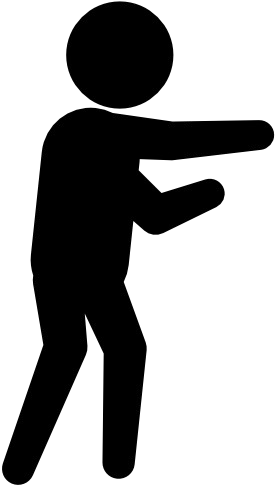
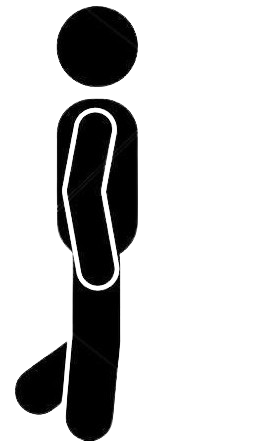
Повністю працююча анімація гравця

Changed region(s): [[0.0, 0.0, 1.0, 1.0], [0.2074, 0.0295, 0.2963, 0.1769]]

diff --git a/main.py b/main.py
@@ -28,8 +28,8 @@ player_size = (91, 161)
 player_image = pygame.transform.scale(pygame.image.load('D:\\Dev\\Projects\\Visual Game\\player.png').convert_alpha(), player_size)
 player_rect = player_image.get_rect()
 player_move_up = [0, -6]  # Збільшимо значення швидкості при стрибку
-player_move_left = [-3, 0]
-player_move_right = [3, 0]
+player_move_left = [-2, 0]
+player_move_right = [2, 0]
 
 player_rect.centerx = WIDTH // 5.5  # По горизонталі в центрі
 player_rect.bottom = HEIGHT // 1.25
@@ -37,6 +37,7 @@ background_image = pygame.transform.scale(pygame.image.load('D:\\Dev\\Projects\\
 
 playing = True
 is_jumping = False
+animate_player = False
 jump_count = 10  # Кількість кадрів, протягом яких гравець пригаватиме
 image_index = 0
 
@@ -51,19 +52,27 @@ while playing:
                 jump_count = 30  # Встановлюємо кількість кадрів стрибка
 
         if event.type == CHANGE_IMAGE:
-            player_image = pygame.image.load(os.path.join(IMAGE_PATH, PLAYER_IMAGES[image_index]))
-            player_image = pygame.transform.scale(player_image, player_size)  # Змінюємо розмір зображення
-            image_index += 1
-            if image_index >= len(PLAYER_IMAGES):
-                image_index = 0
+            if animate_player:  # Перевіряємо, чи потрібно змінювати зображення гравця
+                player_image = pygame.image.load(os.path.join(IMAGE_PATH, PLAYER_IMAGES[image_index]))
+                player_image = pygame.transform.scale(player_image, player_size)  # Змінюємо розмір зображення
+                image_index += 1
+                if image_index >= len(PLAYER_IMAGES):
+                    image_index = 0
 
     keys = pygame.key.get_pressed()
 
+    # Обробка руху гравця
     if keys[K_LEFT] and player_rect.left > 0:
         player_rect = player_rect.move(-3, 0)  # Рух вліво
+        animate_player = True  # Встановлюємо прапорець анімації
 
     if keys[K_RIGHT] and player_rect.right < WIDTH:
         player_rect = player_rect.move(3, 0)  # Рух вправо
+        animate_player = True  # Встановлюємо прапорець анімації
+
+    # Якщо гравець не рухається, встановлюємо прапорець анімації в False
+    if not keys[K_LEFT] and not keys[K_RIGHT]:
+        animate_player = False
 
     # Обробка стрибка
     if is_jumping:
@@ -73,7 +82,6 @@ while playing:
         else:
             jump_count = 30
             is_jumping = False
-
 
     # Відображення фону
     main_display.blit(background_image, (0, 0))
